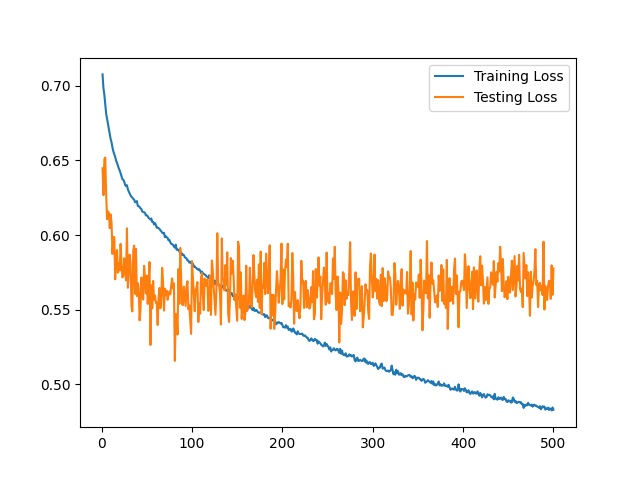
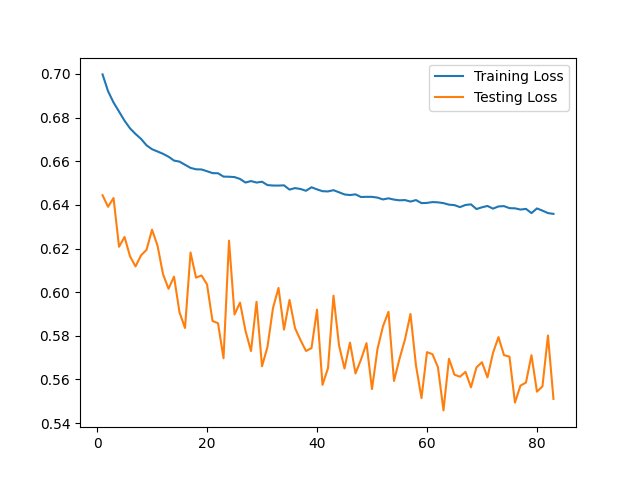
add layers in ffn + adapt early stop

diff --git a/src/model/train.py b/src/model/train.py
@@ -1,5 +1,7 @@
 from src.eval.metric import ROCAUC, GMean
+from src.model.model import CREModel
 from utils import get_device
+
 # from src.model.test import _eval_by_batch
 
 import torch
@@ -8,21 +10,21 @@ from torch.utils.data import DataLoader, TensorDataset
 from typing import Tuple
 
 from tqdm import tqdm
-
+from copy import deepcopy
 
 class EarlyStopping:
-    def __init__(self, patience=5, min_delta=0):
+    def __init__(self, patience=5, min_delta=0.05):
         self.patience = patience
         self.min_delta = min_delta
         self.counter = 0
         self.best_loss = None
         self.early_stop = False
 
-    def __call__(self, val_loss):
+    def __call__(self, test_loss):
         if self.best_loss is None:
-            self.best_loss = val_loss
-        elif val_loss < self.best_loss - self.min_delta:
-            self.best_loss = val_loss
+            self.best_loss = test_loss
+        elif test_loss < self.best_loss - self.min_delta:
+            self.best_loss = test_loss
             self.counter = 0
         else:
             self.counter += 1
@@ -60,12 +62,11 @@ def fit(
 
     history = {"train_loss": [], "test_loss": []}
 
-    early_stopping = EarlyStopping(patience=5, min_delta=0.01)
+    early_stopping = EarlyStopping(patience=100, min_delta=0.005)
 
     with tqdm(range(epochs), unit="batch", disable=not verbose) as tepoch:
         
-        for epoch in tqdm(range(epochs)):
-            # tepoch.set_description(f"Epoch {epoch}")
+        for epoch in tqdm(range(epochs)):    
             model.train()
             train_loss = 0
             for X_batch, desc_batch, y_batch in train_loader:
@@ -99,17 +100,19 @@ def fit(
                 auc = 100. * auc.compute().cpu().numpy(),
                 gmean = 100. * gmean.compute().cpu().numpy(),
             )
-            tepoch.update(1)
-
 
             early_stopping(history["test_loss"][-1])
             if early_stopping.early_stop:
                 print(f"Early stopping at epoch {epoch}")
                 break
-            
-            if len(history["test_loss"]) == 0 or test_loss < min(history["test_loss"]):
-                best_model_state = model.state_dict()
-                torch.save(best_model_state, 'best_model.pth')
 
-    return best_model_state, history
+            if len(history["test_loss"]) == 1 or test_loss < min(history["test_loss"][:-1]):
+                best_model_state = model.state_dict()
+                torch.save(best_model_state, 'model/model.pt')
+            
+            tepoch.update(1)
+
+    best_model = CREModel()
+    best_model.load_state_dict(torch.load('model/model.pt'))
+    return best_model, history
    

diff --git a/src/model/model.py b/src/model/model.py
@@ -29,14 +29,20 @@ class CREModel(nn.Module):
             dropout=dropout,
             activation=te_act,
         )
-        self.dff = nn.Linear(d_model + dim_ft - 1, 2)
-        self.dropout = nn.Dropout(dropout)
-        self.softmax = nn.Softmax(dim=-1)
+        self.dff = nn.Sequential(
+            nn.Linear(d_model + dim_ft - 1, 10),
+            nn.ReLU(),
+            nn.Dropout(dropout),
+            nn.Linear(10, 2),
+            nn.ReLU(),
+            nn.Dropout(dropout),
+            nn.Softmax(dim=-1)
+        )
+        
 
     def forward(self, x: torch.Tensor, desc: torch.Tensor) -> torch.Tensor:
         te_out = self.te(desc)
 
         x = torch.concat((te_out, x), dim=1)
-        out = self.dff(x)
-        out = self.dropout(out)
-        return self.softmax(out)
+        
+        return self.dff(x)

diff --git a/main.py b/main.py
@@ -1,4 +1,5 @@
 from src.pipeline import pipeline
+from src.model.model import CREModel
 from src.data.stanfordnlp import StanfordNLP
 
 from utils import get_device, PREPROCESSED_FILE, LOANS_FILE
@@ -8,7 +9,7 @@ from pathlib import Path
 
 if __name__ == "__main__":
     use_sw = True
-    do_preprocessing = True
+    do_preprocessing = False
 
     if use_sw:
         preprocessed_file = PREPROCESSED_FILE
@@ -17,6 +18,7 @@ if __name__ == "__main__":
     
     pipeline(
         loans_file=LOANS_FILE,
+        model=CREModel(dropout=0.5),
         nlp_model=StanfordNLP(stop_words=use_sw),
         device=get_device(),
         do_preprocessing=do_preprocessing,

diff --git a/src/pipeline.py b/src/pipeline.py
@@ -89,7 +89,7 @@ def pipeline(
         epochs=epochs, 
         batch_size=1024, 
         lr=1e-4, 
-        weight_decay=1e-4, 
+        weight_decay=1e-5, 
         device=device, 
         verbose=True
     )

diff --git a/README.md b/README.md
@@ -78,7 +78,7 @@ Hence, as mentioned in the article, I used the loans issued during the period of
 |-------------------------|----------------|-------------------|---------------|-----------------|-------------------|----------------|-------------|
 | Loan amount (Log)       | 9.444 / 9.447  | 9.556  / 9.575   | 0.651 / 0.648 | 9.346 / 9.341    | 9.393 / 9.393   | 0.652 / 0.654  | −0.053 / -0.057 |
 | Interest rate           | 0.154 / 0.155  | 0.153 / 0.153    | 0.042 / 0.043 | 0.128 / 0.128   | 0.125 /  0.125   | 0.042 / 0.042 | −0.216 / -0.217 |
-| Annual income (Log)     | 10.956 /10.969 | 10.951/10954     | 0.499 / 0.491 | 11.046 / 11.056 | 11.035 / 11.051   | 0.513  / 0.509   | 0.062  / 0.061  |
+| Annual income (Log)     | 10.956 / 10.969 | 10.951/10954     | 0.499 / 0.491 | 11.046 / 11.056 | 11.035 / 11.051   | 0.513  / 0.509   | 0.062  / 0.061  |
 | DTI                     | 0.173 / 0.172  | 0.173 / 0.172    | 0.075 / 0.074 | 0.159 / 0.158    | 0.157 / 0.156  | 0.075 / 0.074  | −0.064 / -0.066 |
 | FICO score              | 695.500 / 696.006 | 687.000 / 692.000 | 28.238 / 28.278 | 706.960 / 707.796 | 702.000 / 702.000 | 33.667 / 33.747 | 0.123  / 0.125 |
 | Delinquency in 2 years  | 0.190 / 0.211  | 0.000 / 0.000    | 0.490 / 0.660 | 0.170 / 0.189 | 0.000  / 0.000      | 0.470 / 0.603  | −0.012 / -0.013 |
